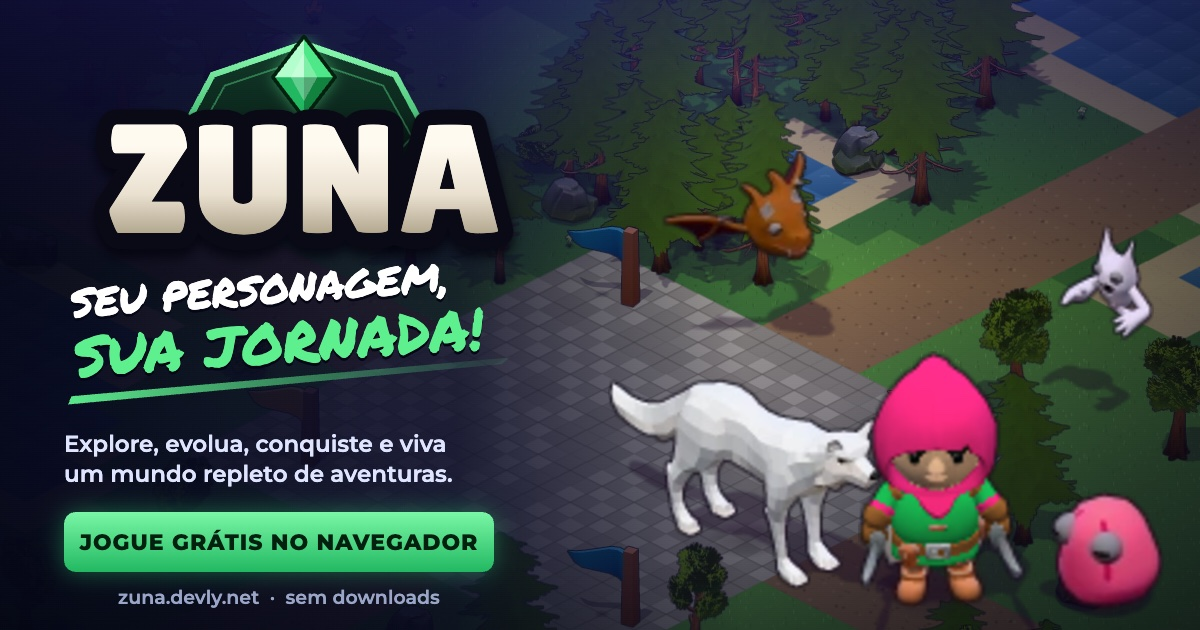
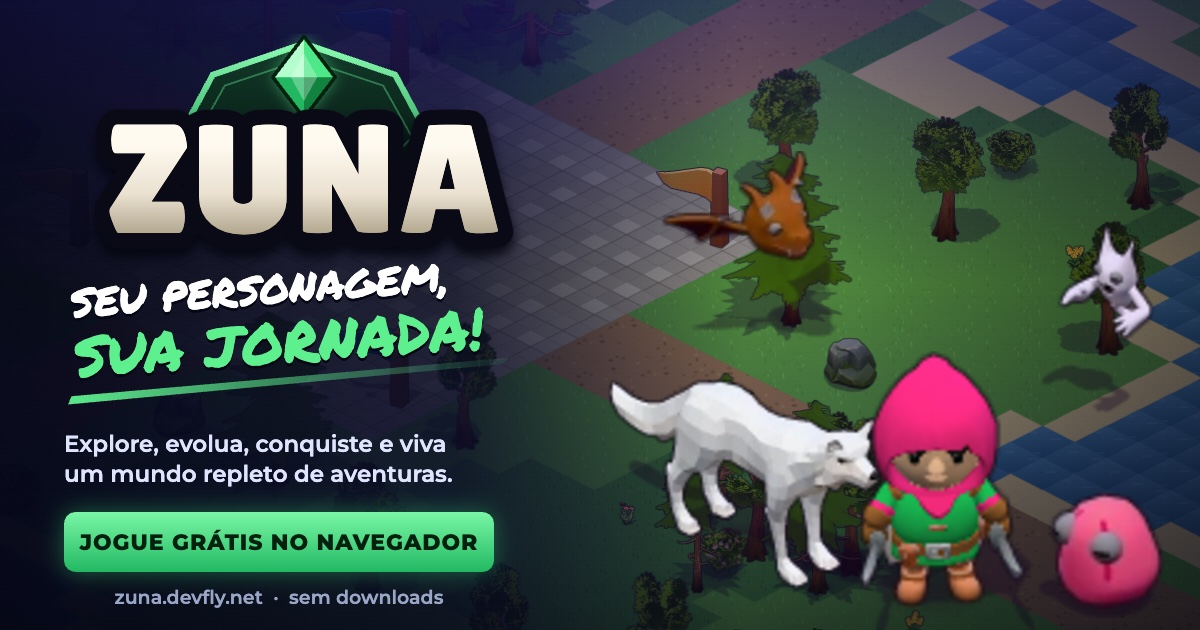
Corrige o domínio: devfly.net (e não devly.net)

diff --git a/packages/client/index.html b/packages/client/index.html
@@ -13,8 +13,8 @@
     <meta property="og:site_name" content="Zuna" />
     <meta property="og:title" content="Zuna · Seu personagem, sua jornada!" />
     <meta property="og:description" content="Explore, evolua, conquiste e viva um mundo repleto de aventuras. Jogue direto no navegador." />
-    <meta property="og:url" content="https://zuna.devly.net/" />
-    <meta property="og:image" content="https://zuna.devly.net/og-image.jpg" />
+    <meta property="og:url" content="https://zuna.devfly.net/" />
+    <meta property="og:image" content="https://zuna.devfly.net/og-image.jpg" />
     <meta property="og:image:width" content="1200" />
     <meta property="og:image:height" content="630" />
     <meta name="twitter:card" content="summary_large_image" />

diff --git a/README.md b/README.md
@@ -1,6 +1,6 @@
 # Zuna
 
-**Seu personagem, sua jornada!** Zuna é um MMORPG isométrico no navegador, no estilo Tibia: explore, evolua, conquiste e viva um mundo repleto de aventuras, sem downloads. Jogue em https://zuna.devly.net.
+**Seu personagem, sua jornada!** Zuna é um MMORPG isométrico no navegador, no estilo Tibia: explore, evolua, conquiste e viva um mundo repleto de aventuras, sem downloads. Jogue em https://zuna.devfly.net.
 
 Este repositório está na fase 0 (protótipo técnico) do [plano do jogo](docs/plano-do-jogo.md).
 
@@ -61,12 +61,12 @@ Abra http://localhost:5173, crie uma conta e um personagem. Para ver o multiplay
 
 Produção roda na [Railway](https://railway.com) com um só serviço (o `Dockerfile` da raiz) e um Postgres:
 
-- `https://zuna.devly.net`: o jogo. O próprio servidor entrega o cliente compilado (`packages/client/dist`).
-- `https://api.zuna.devly.net`: API e WebSocket. O cliente é compilado com `VITE_SERVER_URL=https://api.zuna.devly.net`; sem essa variável, ele fala com o mesmo endereço que entregou a página.
-- O DNS do devly.net fica na Cloudflare, com os dois subdomínios em CNAME para a Railway.
+- `https://zuna.devfly.net`: o jogo. O próprio servidor entrega o cliente compilado (`packages/client/dist`).
+- `https://api.zuna.devfly.net`: API e WebSocket. O cliente é compilado com `VITE_SERVER_URL=https://api.zuna.devfly.net`; sem essa variável, ele fala com o mesmo endereço que entregou a página.
+- O DNS do devfly.net fica na Cloudflare, com os dois subdomínios em CNAME para a Railway.
 - `railway.json` define o healthcheck (`/__healthcheck`), uma réplica só (o mundo fica na memória do processo) e 30 s para salvar os jogadores antes de desligar.
 
-Variáveis do serviço na Railway: `DATABASE_URL=${{Postgres.DATABASE_URL}}`, `VITE_SERVER_URL=https://api.zuna.devly.net` e `PORT=8080`. O `NODE_ENV=production` já vem da imagem.
+Variáveis do serviço na Railway: `DATABASE_URL=${{Postgres.DATABASE_URL}}`, `VITE_SERVER_URL=https://api.zuna.devfly.net` e `PORT=8080`. O `NODE_ENV=production` já vem da imagem.
 
 Para publicar uma versão nova a partir da sua máquina:
 

diff --git a/docs/plano-do-jogo.md b/docs/plano-do-jogo.md
@@ -1,6 +1,6 @@
 # Plano do Jogo — Zuna
 
-> **Seu personagem, sua jornada!** Explore, evolua, conquiste e viva um mundo repleto de aventuras. No ar em https://zuna.devly.net.
+> **Seu personagem, sua jornada!** Explore, evolua, conquiste e viva um mundo repleto de aventuras. No ar em https://zuna.devfly.net.
 
 > **Versão 4.** Direção: foco em receita, progressão paga (pay-to-progress), nível ilimitado, equipamento com teto máximo e XP estilo Tibia (cada monstro dá uma quantidade fixa de XP). O protótipo técnico (fase 0) está em `packages/` e já tem contas, personagens salvos em banco e customização com roupas, mascotes e montarias.
 
